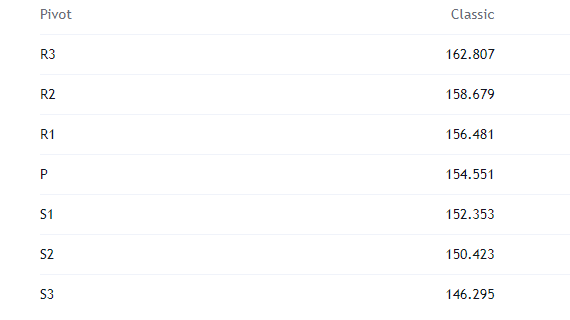
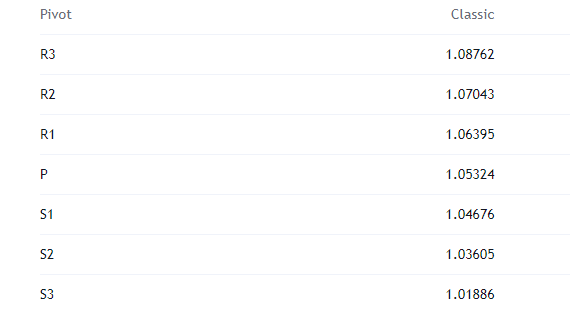
bug fixing

diff --git a/ai/service/web_scrapping_image.py b/ai/service/web_scrapping_image.py
@@ -4,8 +4,10 @@ from selenium.webdriver.support import expected_conditions as EC
 from selenium.webdriver.common.by import By
 from selenium.webdriver.chrome.service import Service
 from selenium.webdriver.chrome.options import Options
-from selenium.common.exceptions import TimeoutException
+from selenium.common.exceptions import TimeoutException, NoSuchElementException, ElementClickInterceptedException
 from webdriver_manager.chrome import ChromeDriverManager
+
+
 import time
 from PIL import Image, ImageDraw
 import os
@@ -65,6 +67,8 @@ def scrape_technical_indicators(is_local: bool, indicator_url: str):
     # driver.save_screenshot("data/eur_usd_chart_1_month.png")
 
     driver.get(indicator_url)
+    close_ads(driver)
+    
     driver.execute_script("window.scrollBy(0, 550);")
     time.sleep(3)
     driver.set_window_size(1920, 1920)
@@ -166,6 +170,8 @@ def scrape_economic_calenders(is_local: bool, calender_url: str):
     driver.execute_script("window.scrollBy(0, 400);")
     time.sleep(2)
     
+    close_ads(driver)
+
     screen_shot_width = 900
     normal_width = 1920
     normal_height = 1080
@@ -195,15 +201,35 @@ def scrape_economic_calenders(is_local: bool, calender_url: str):
             cropped_img.save(f"data/calender/{file_name}")
     driver.quit()
 
+def close_ads(driver):
+    """
+    Automatically finds and closes ads or modal pop-ups if they appear.
+    """
+    try:
+        # Look for common ad elements
+        potential_ads = driver.find_elements(By.XPATH, "//*[contains(@style, 'z-index')]")
+        
+        for ad in potential_ads:
+            try:
+                # Attempt to find a close button within the potential ad element
+                close_button = ad.find_element(By.XPATH, ".//*[contains(text(), '×') or contains(@class, 'close') or contains(@id, 'close')]")
+                close_button.click()
+                print("Ad closed.")
+                return  # Exit after closing one ad (if multiple, can loop through others)
+            except NoSuchElementException:
+                continue  # Skip if no close button found in this element
+
+    except Exception as e:
+        print(f"Error while attempting to close ads: {e}")
 
 if __name__ == "__main__":
     # scrape_economic_calenders(
     #     is_local=True,
-    #     calender_url="https://www.tradingview.com/symbols/EURUSD/economic-calendar/?exchange=FX_IDC"
+    #     calender_url="https://www.tradingview.com/symbols/EURUSD/economic-calendar"
     # )
     #test()
 
     scrape_technical_indicators(
         is_local=True,
-        indicator_url="https://www.tradingview.com/symbols/USDJPY/technicals/?exchange=FX_IDC"
+        indicator_url="https://www.tradingview.com/symbols/EURUSD/technicals"
     )

diff --git a/ai/parameters.py b/ai/parameters.py
@@ -32,18 +32,18 @@ ECONOMIC_INDICATORS_WEBSITES = {
 }
 
 NEWS_ROOT_WEBSITE = {
-    "EUR/USD": "https://www.tradingview.com/symbols/EURUSD/news/?exchange=FX_IDC",
-    "USD/JPY": "https://www.tradingview.com/symbols/USDJPY/news/?exchange=FX_IDC"
+    "EUR/USD": "https://www.tradingview.com/symbols/EURUSD/news",
+    "USD/JPY": "https://www.tradingview.com/symbols/USDJPY/news"
 }
 
 TECHNICAL_INDICATORS_WEBSITES = {
     "EUR/USD": {
-        "indicator": "https://www.tradingview.com/symbols/EURUSD/technicals/?exchange=FX_IDC",
-        "calender": "https://www.tradingview.com/symbols/EURUSD/economic-calendar/?exchange=FX_IDC"
+        "indicator": "https://www.tradingview.com/symbols/EURUSD/technicals",
+        "calender": "https://www.tradingview.com/symbols/EURUSD/economic-calendar"
     },
     "USD/JPY": {
-        "indicator": "https://www.tradingview.com/symbols/USDJPY/technicals/?exchange=FX_IDC",
-        "calender": "https://www.tradingview.com/symbols/USDJPY/economic-calendar/?exchange=FX_IDC"
+        "indicator": "https://www.tradingview.com/symbols/USDJPY/technicals",
+        "calender": "https://www.tradingview.com/symbols/USDJPY/economic-calendar"
     }
 }
 
